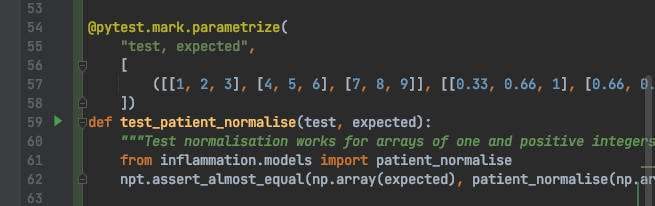
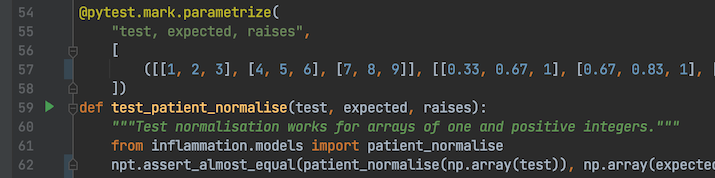
Address some pilot #2 comments, swap numpy assert call args to match method specs

diff --git a/_episodes/16-diagnosing-issues-improving-robustness.md b/_episodes/16-diagnosing-issues-improving-robustness.md
@@ -18,6 +18,7 @@ keypoints:
 ---
 
 ## Introduction
+
 Unit testing can tell us something is wrong in our code and give a rough idea of where the error is by which
 test(s) are failing. But it does not tell us exactly where the problem is (i.e. what line of code), or how it came about.
 To give us a better idea of what is going on, we can:
@@ -73,10 +74,7 @@ NumPy's automatic `broadcasting` (adjustment of shapes) will make sure that the 
 > compatible shapes. Be careful, though, to understand how the arrays get stretched to avoid getting unexpected results.
 {: .callout}
 
-Note there is an
-assumption in this calculation that the minimum value we want is always zero. This is a sensible assumption for
-this particular application, since the zero value is a special case indicating that a patient experienced no
-inflammation on a particular day.
+Note there is an assumption in this calculation that the minimum value we want is always zero. This is a sensible assumption for this particular application, since the zero value is a special case indicating that a patient experienced no inflammation on a particular day.
 
 Let us now add a new test in `tests/test_models.py` to check that the normalisation function is correct for some test data.
 
@@ -90,11 +88,11 @@ def test_patient_normalise(test, expected):
     """Test normalisation works for arrays of one and positive integers.
        Assumption that test accuracy of two decimal places is sufficient."""
     from inflammation.models import patient_normalise
-    npt.assert_almost_equal(np.array(expected), patient_normalise(np.array(test)), decimal=2)
+    npt.assert_almost_equal(patient_normalise(np.array(test)), np.array(expected), decimal=2)
 ~~~
 {: .language-python}
 
-Note another assumption made here that a test accuracy of two decimal places is sufficient - so we state this explicitly and have rounded our expected values up accordingly.
+Note another assumption made here that a test accuracy of two decimal places is sufficient - so we state this explicitly and have rounded our expected values up accordingly. Also, we are using the `assert_almost_equal()` Numpy testing function instead of `assert_array_equal()`, since it allows us to test against values that are *almost* equal: very useful when we have numbers with arbitrary decimal places and are only concerned with a certain degree of precision, like the test case above.
 
 Run the tests again using `pytest tests/test_model.py` and you will note that the new
 test is failing, with an error message that does not give many clues as to what went wrong.
@@ -106,11 +104,11 @@ E
 E       Mismatched elements: 6 / 9 (66.7%)
 E       Max absolute difference: 0.57142857
 E       Max relative difference: 1.345
-E        x: array([[0.33, 0.67, 1.  ],
-E              [0.67, 0.83, 1.  ],
-E              [0.78, 0.89, 1.  ]])
-E        y: array([[0.14, 0.29, 0.43],
+E        x: array([[0.14, 0.29, 0.43],
 E              [0.5 , 0.62, 0.75],
+E              [0.78, 0.89, 1.  ]])
+E        y: array([[0.33, 0.67, 1.  ],
+E              [0.67, 0.83, 1.  ],
 E              [0.78, 0.89, 1.  ]])
 
 tests/test_models.py:53: AssertionError
@@ -224,12 +222,12 @@ E           AssertionError:
 E           Arrays are not almost equal to 2 decimals
 E
 E           x and y nan location mismatch:
-E            x: array([[0, 0, 0],
-E                  [0, 0, 0],
-E                  [0, 0, 0]])
-E            y: array([[nan, nan, nan],
+E            x: array([[nan, nan, nan],
 E                  [nan, nan, nan],
 E                  [nan, nan, nan]])
+E            y: array([[0, 0, 0],
+E                  [0, 0, 0],
+E                  [0, 0, 0]])
 
 env/lib/python3.6/site-packages/numpy/testing/_private/utils.py:740: AssertionError
 ~~~
@@ -303,7 +301,7 @@ def patient_normalise(data):
 > > def test_patient_normalise(test, expected):
 > >     """Test normalisation works for arrays of one and positive integers."""
 > >     from inflammation.models import patient_normalise
-> >     npt.assert_almost_equal(np.array(expected), patient_normalise(np.array(test)), decimal=2)
+> >     npt.assert_almost_equal(patient_normalise(np.array(test)), np.array(expected), decimal=2)
 > > ...
 > > ~~~
 > > {: .language-python}
@@ -371,13 +369,15 @@ def test_patient_normalise(test, expected, raises):
     from inflammation.models import patient_normalise
     if raises:
         with pytest.raises(raises):
-            npt.assert_almost_equal(np.array(expected), patient_normalise(np.array(test)), decimal=2)
+            npt.assert_almost_equal(patient_normalise(np.array(test)), np.array(expected), decimal=2)
     else:
-        npt.assert_almost_equal(np.array(expected), patient_normalise(np.array(test)), decimal=2)
+        npt.assert_almost_equal(patient_normalise(np.array(test)), np.array(expected), decimal=2)
 ~~~
 {: .language-python}
 
-> ## Add a Precondition to Check the Correct Type and Shape of Data
+Be sure to commit your changes so far and push them to GitHub.
+
+> ## Add a Precondition to Check the Correct Type and Shape of Data (Optional Advanced Challenge)
 >
 > Add preconditions to check that data is an `ndarray` object and that it is of the correct shape.
 > Add corresponding tests to check that the function raises the correct exception.
@@ -386,9 +386,11 @@ def test_patient_normalise(test, expected, raises):
 > Once you are done, commit your new files, and push the new commits to your remote repository on GitHub.
 >
 > > ## Solution
+> >
+> > In `inflammation/models.py`:
+> >
 > > ~~~
 > > ...
-> >
 > > def patient_normalise(data):
 > >     """
 > >     Normalise patient data between 0 and 1 of a 2D inflammation data array.
@@ -411,7 +413,12 @@ def test_patient_normalise(test, expected, raises):
 > >     normalised[np.isnan(normalised)] = 0
 > >     return normalised
 > > ...
+> > ~~~
 > >
+> > In `test/test_models.py`:
+> >
+> > ~~~
+> > ...
 > > @pytest.mark.parametrize(
 > >     "test, expected, raises",
 > >     [
@@ -439,17 +446,20 @@ def test_patient_normalise(test, expected, raises):
 > >         test = np.array(test)
 > >     if raises:
 > >         with pytest.raises(raises):
-> >             npt.assert_almost_equal(np.array(expected), patient_normalise(test), decimal=2)
+> >             npt.assert_almost_equal(patient_normalise(test), np.array(expected), decimal=2)
 > >     else:
-> >         npt.assert_almost_equal(np.array(expected), patient_normalise(test), decimal=2)
+> >         npt.assert_almost_equal(patient_normalise(test), np.array(expected), decimal=2)
 > > ...
 > > ~~~
+> >
+> > Note the conversion from `list` to `np.array` has been moved out of the call to `npt.assert_almost_equal()` within the test function, and is now only applied to list items (rather than all items). This allows for greater flexibility with our test inputs, since this wouldn't work in the test case that uses a string.
+> >
 > > {: .language-python}
 > {: .solution}
 >
 {: .challenge}
 
-Once done with the exercise, be sure to commit your changes and push them to GitHub.
+If you do the challenge, again, be sure to commit your changes and push them to GitHub.
 
 You should not take it too far by trying to code preconditions for every conceivable eventuality.
 You should aim to strike a balance between making sure you secure your function against incorrect use,

diff --git a/_episodes/12-automatically-testing-software.md b/_episodes/12-automatically-testing-software.md
@@ -152,7 +152,7 @@ import numpy.testing as npt
 
 test_input = np.array([[1, 2], [3, 4], [5, 6]])
 test_result = np.array([3, 4])
-npt.assert_array_equal(test_result, daily_mean(test_input))
+npt.assert_array_equal(daily_mean(test_input), test_result)
 ~~~
 {: .language-python}
 
@@ -163,15 +163,15 @@ We could then add to this with other tests that use and test against other value
 ~~~
 test_input = np.array([[2, 0], [4, 0]])
 test_result = np.array([2, 0])
-npt.assert_array_equal(test_result, daily_mean(test_input))
+npt.assert_array_equal(daily_mean(test_input), test_result)
 
 test_input = np.array([[0, 0], [0, 0]])
 test_result = np.array([0, 0])
-npt.assert_array_equal(test_result, daily_mean(test_input))
+npt.assert_array_equal(daily_mean(test_input), test_result)
 
 test_input = np.array([[1, 2], [3, 4], [5, 6]])
 test_result = np.array([3, 4])
-npt.assert_array_equal(test_result, daily_mean(test_input))
+npt.assert_array_equal(daily_mean(test_input), test_result)
 ~~~
 {: .language-python}
 
@@ -197,7 +197,9 @@ We could put these tests in a separate script to automate the running of these t
 Going back to our failed first test, what was the issue? As it turns out, the test itself was incorrect, and should have read:
 
 ~~~
-npt.assert_array_equal(np.array([3, 0]), daily_mean(np.array([[2, 0], [4, 0]])))
+test_input = np.array([[2, 0], [3, 0]])
+test_result = np.array([2, 0])
+npt.assert_array_equal(daily_mean(test_input), test_result)
 ~~~
 {: .language-python}
 
@@ -236,7 +238,7 @@ def test_daily_mean_zeros():
     test_result = np.array([0, 0])
 
     # Need to use Numpy testing functions to compare arrays
-    npt.assert_array_equal(test_result, daily_mean(test_input))
+    npt.assert_array_equal(daily_mean(test_input), test_result)
 
 
 def test_daily_mean_integers():
@@ -249,7 +251,7 @@ def test_daily_mean_integers():
     test_result = np.array([3, 4])
 
     # Need to use Numpy testing functions to compare arrays
-    npt.assert_array_equal(test_result, daily_mean(test_input))
+    npt.assert_array_equal(daily_mean(test_input), test_result)
 ...
 ~~~
 {: .language-python}
@@ -409,7 +411,7 @@ So if we have many tests, we essentially get a report indicating which tests suc
 > >                            [4, 1, 9]])
 > >     test_result = np.array([4, 6, 9])
 > >
-> >     npt.assert_array_equal(test_result, daily_max(test_input))
+> >     npt.assert_array_equal(daily_max(test_input), test_result)
 > >
 > >
 > > def test_daily_min():
@@ -421,7 +423,7 @@ So if we have many tests, we essentially get a report indicating which tests suc
 > >                            [-4, -1, 9]])
 > >     test_result = np.array([-4, -6, 2])
 > >
-> >     npt.assert_array_equal(test_result, daily_min(test_input))
+> >     npt.assert_array_equal(daily_min(test_input), test_result)
 > > ...
 > > ~~~
 > > {: .language-python}

diff --git a/_episodes/13-scaling-up-unit-testing.md b/_episodes/13-scaling-up-unit-testing.md
@@ -15,6 +15,7 @@ keypoints:
 ---
 
 ## Introduction
+
 We're starting to build up a number of tests that test the same function, but just with different parameters. However, continuing to write a new function for every single test case isn't likely to scale well as our development progresses. How can we make our job of writing tests more efficient? And importantly, as the number of tests increases, how can we determine how much of our code base is actually being tested?
 
 ## Parameterising Our Unit Tests
@@ -31,7 +32,7 @@ So far, we've been writing a single function for every new test we need. But ins
 def test_daily_mean(test, expected):
     """Test mean function works for array of zeroes and positive integers."""
     from inflammation.models import daily_mean
-    npt.assert_array_equal(np.array(expected), daily_mean(np.array(test)))
+    npt.assert_array_equal(daily_mean(np.array(test)), np.array(expected))
 ~~~
 {: .language-python}
 
@@ -58,7 +59,7 @@ The big pluses here are that we don't need to write separate functions for each 
 > > def test_daily_max(test, expected):
 > >     """Test max function works for zeroes, positive integers, mix of positive/negative integers."""
 > >     from inflammation.models import daily_max
-> >     npt.assert_array_equal(np.array(expected), daily_max(np.array(test)))
+> >     npt.assert_array_equal(daily_max(np.array(test)), np.array(expected))
 > >
 > >
 > > @pytest.mark.parametrize(
@@ -71,7 +72,7 @@ The big pluses here are that we don't need to write separate functions for each 
 > > def test_daily_min(test, expected):
 > >     """Test min function works for zeroes, positive integers, mix of positive/negative integers."""
 > >     from inflammation.models import daily_min
-> >     npt.assert_array_equal(np.array(expected), daily_min(np.array(test)))
+> >     npt.assert_array_equal(daily_min(np.array(test)), np.array(expected))
 > > ...
 > > ~~~
 > > {: .language-python}
